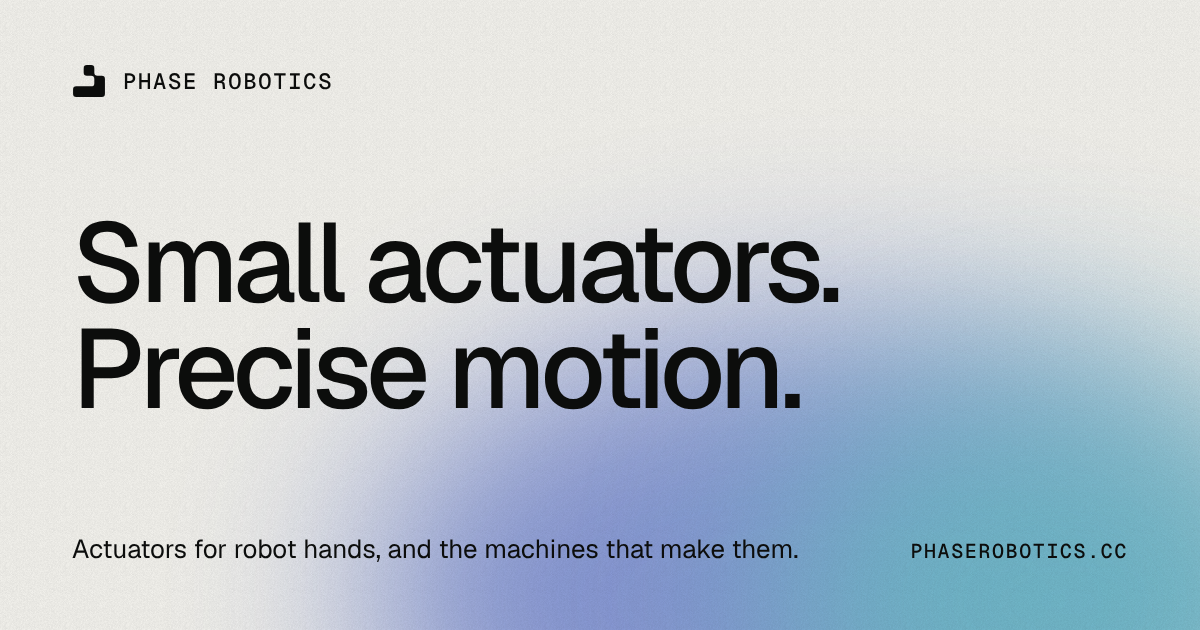
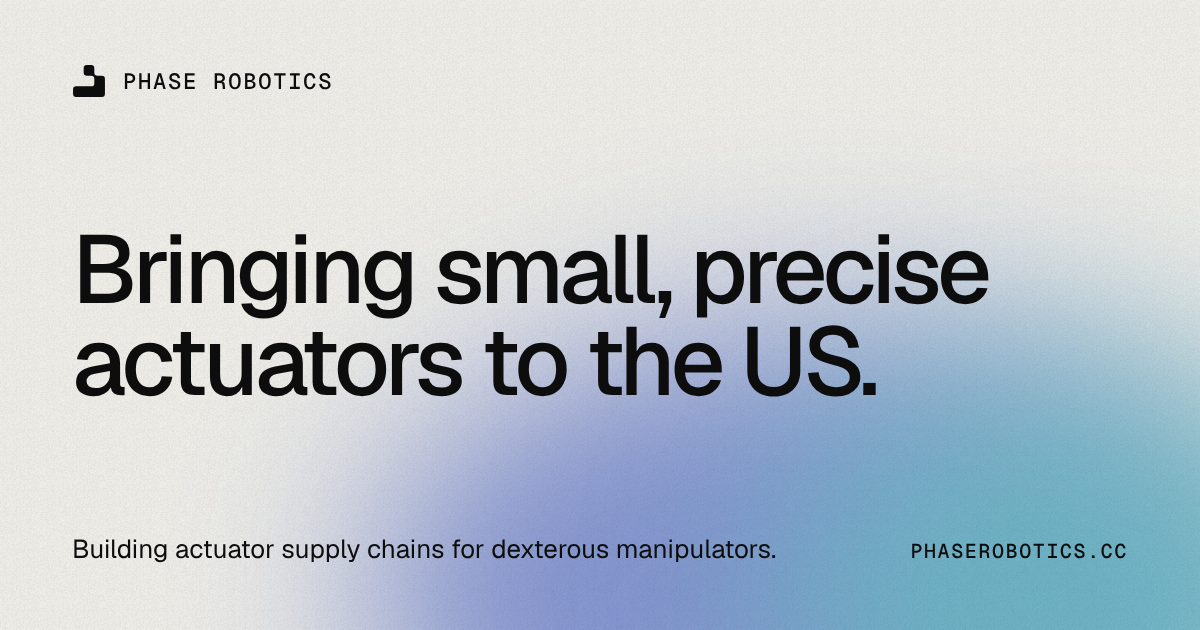
Update metadata and share image for the new heading
Title, description, image alt text, web manifest and llms.txt now use
"Bringing small, precise actuators to the US", and the Open Graph image
is regenerated with the same headline.

Claude-Session: https://claude.ai/code/session_01B2eN9N1zje8nCQBp5NmCoG

Changed region(s): [[0.0617, 0.3317, 0.8325, 0.5127], [0.0617, 0.5127, 0.74, 0.6635], [0.0617, 0.8444, 0.6475, 0.9048]]

diff --git a/app/layout.tsx b/app/layout.tsx
@@ -8,12 +8,12 @@ import './globals.css'
 
 const SITE_URL = 'https://phaserobotics.cc'
 const DESCRIPTION =
-  'Phase Robotics builds small precision actuators for robot hands and dexterous manipulators, and the machines that make them. We are working to build the motor supply chain in the United States.'
+  'Phase Robotics is bringing small, precise actuators to the US, and building actuator supply chains for dexterous manipulators here.'
 
 export const metadata: Metadata = {
   metadataBase: new URL(SITE_URL),
   title: {
-    default: 'Phase Robotics | Small Actuators. Precise Motion.',
+    default: 'Phase Robotics | Bringing Small, Precise Actuators to the US',
     template: '%s | Phase Robotics',
   },
   description: DESCRIPTION,
@@ -50,14 +50,14 @@ export const metadata: Metadata = {
     type: 'website',
     siteName: 'Phase Robotics',
     url: '/',
-    title: 'Phase Robotics | Small Actuators. Precise Motion.',
+    title: 'Phase Robotics | Bringing Small, Precise Actuators to the US',
     description: DESCRIPTION,
-    images: [{ url: '/og-image.png', width: 1200, height: 630, alt: 'Phase Robotics. Small actuators. Precise motion.' }],
+    images: [{ url: '/og-image.png', width: 1200, height: 630, alt: 'Phase Robotics. Bringing small, precise actuators to the US.' }],
     locale: 'en_US',
   },
   twitter: {
     card: 'summary_large_image',
-    title: 'Phase Robotics | Small Actuators. Precise Motion.',
+    title: 'Phase Robotics | Bringing Small, Precise Actuators to the US',
     description: DESCRIPTION,
     images: ['/og-image.png'],
   },
